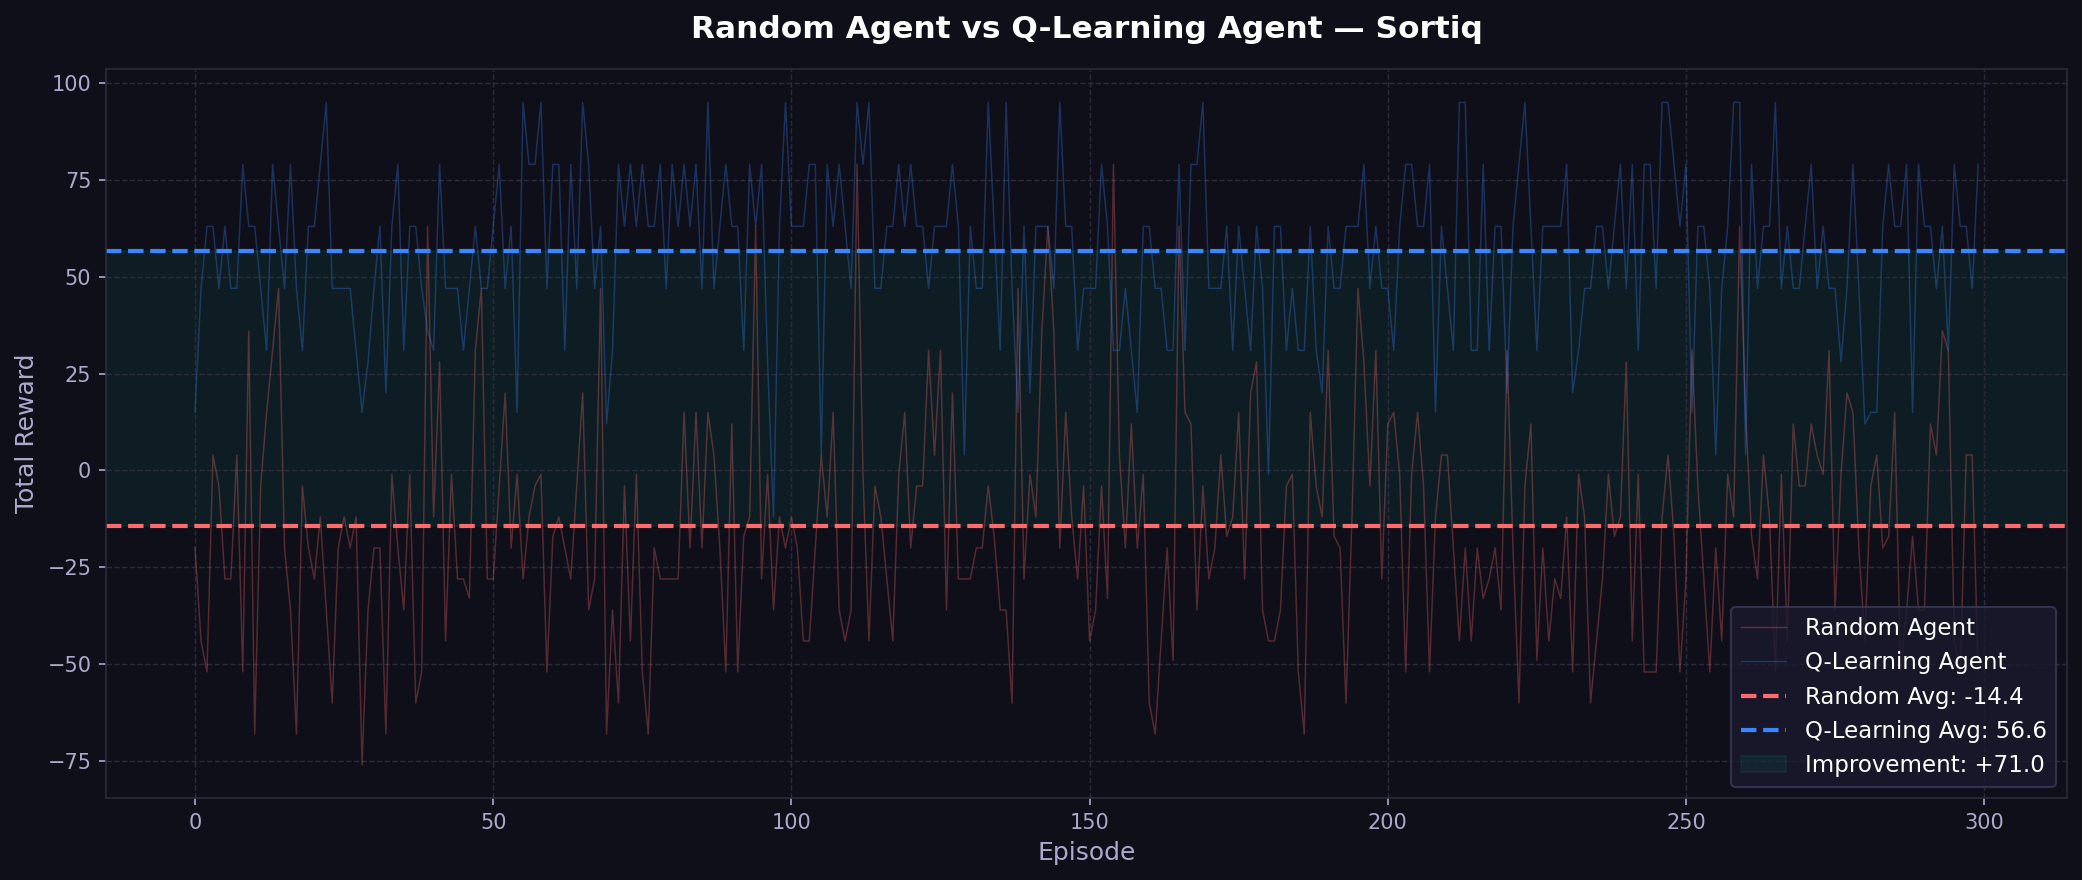
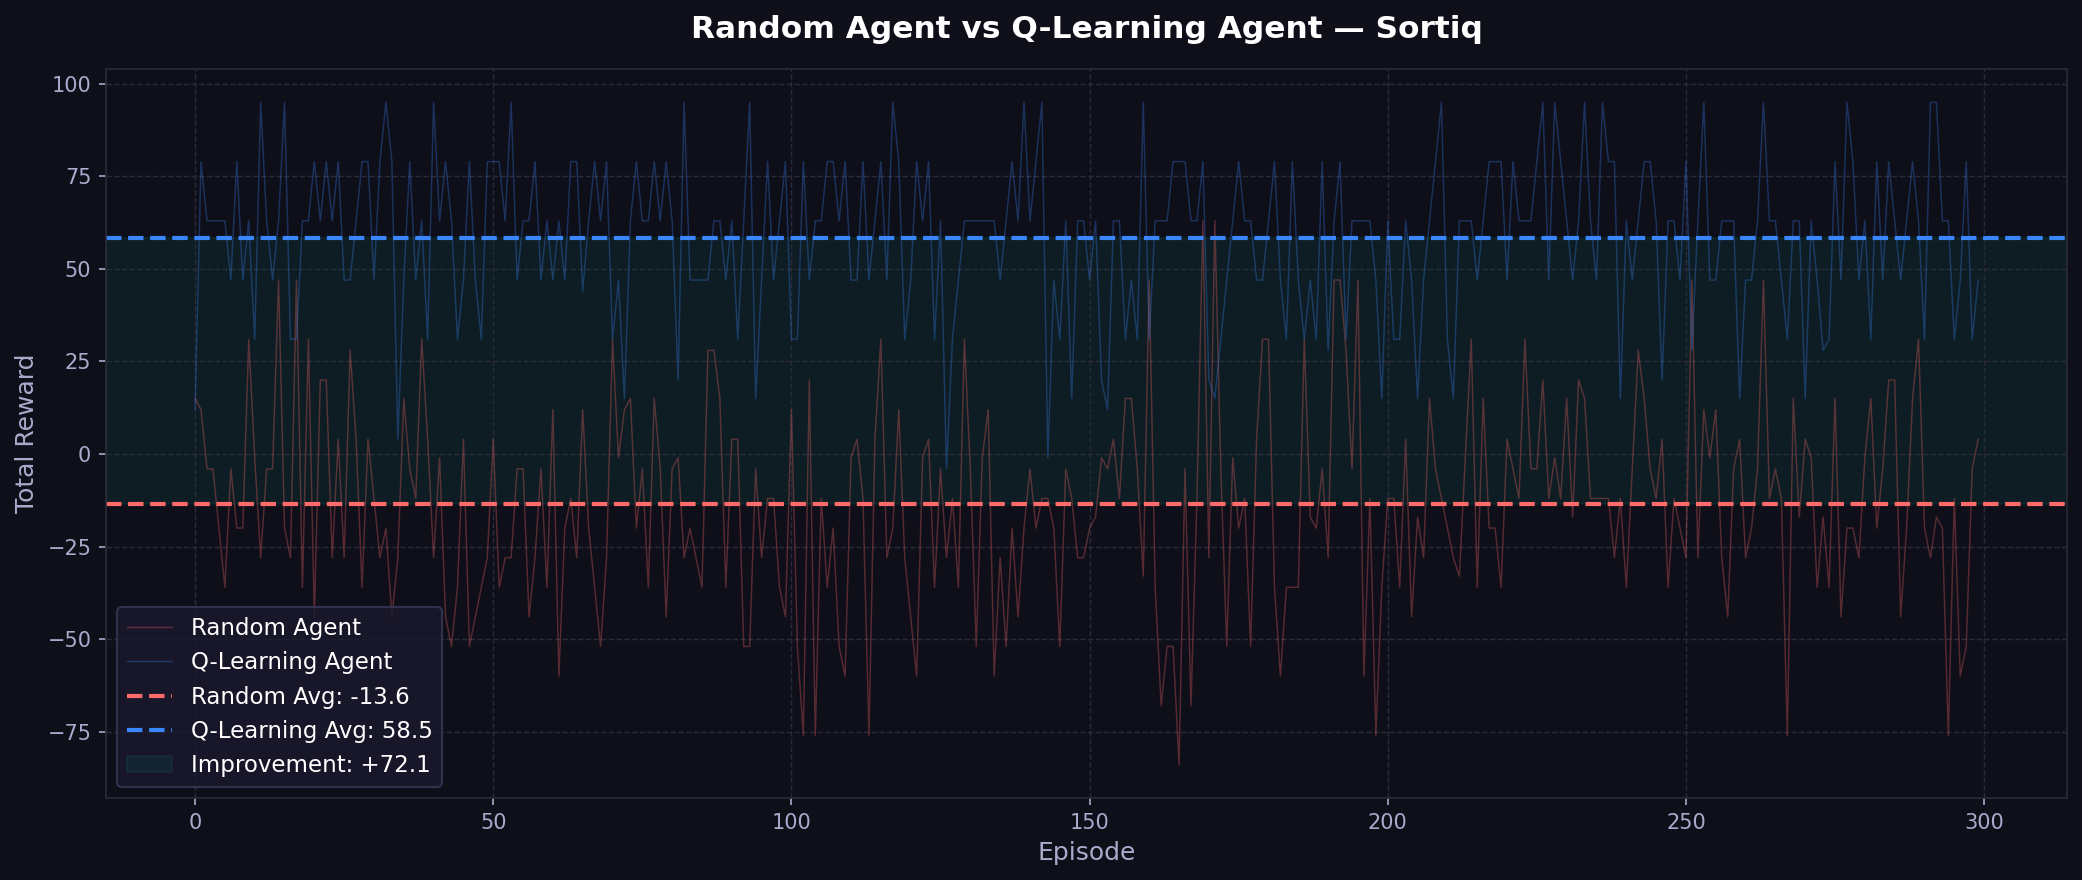
👁 UI: Fixed HUD clipping and enabled overflow-visible for sim section

diff --git a/client/app/page.js b/client/app/page.js
@@ -254,15 +254,15 @@ export default function Home() {
     <main className="w-full bg-[#05050a] selection:bg-[#3a86ff]/30">
       
       {/* SECTION 1: THE APP STAGE (Fixed-Height Hero) */}
-      <section className="relative w-full h-[740px] bg-[#05050a] border-b border-white/5 flex flex-col items-center pt-20 overflow-x-auto overflow-y-hidden scrollbar-hide">
+      <section className="relative w-full h-[780px] bg-[#05050a] border-b border-white/5 flex flex-col items-center pt-16 overflow-visible">
         <MatrixBackground />
         
         {/* Title Header */}
-        <div className="relative z-20 mb-8 text-center">
-          <h2 className="text-[10px] font-mono tracking-[0.6em] text-[#3a86ff] uppercase opacity-70 flex items-center gap-4 justify-center">
-            <span className="w-8 h-[1px] bg-[#3a86ff]/30" />
+        <div className="relative z-20 mb-6 text-center">
+          <h2 className="text-[9px] font-mono tracking-[0.6em] text-[#3a86ff] uppercase opacity-70 flex items-center gap-4 justify-center">
+            <span className="w-6 h-[1px] bg-[#3a86ff]/30" />
             Inference Visualization
-            <span className="w-8 h-[1px] bg-[#3a86ff]/30" />
+            <span className="w-6 h-[1px] bg-[#3a86ff]/30" />
           </h2>
         </div>
         
@@ -275,7 +275,7 @@ export default function Home() {
         )}
 
         {/* Dashboard Stage (Natural sizing, Centered) */}
-        <div className="relative z-10 w-full max-w-[95%] lg:max-w-5xl flex flex-col gap-4 p-4">
+        <div className="relative z-30 w-full max-w-[95%] lg:max-w-5xl flex flex-col gap-3 p-2">
           <HUD
             episode={episode} score={score} storage={storage} energy={energy}
             itemIndex={itemIndex} running={running}
